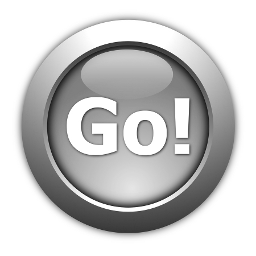
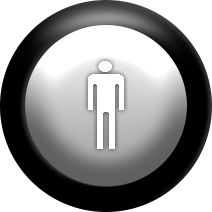
imp: arcade mode: changed coloring to blu-ish, using new launch button images from JacKc

diff --git a/trunk/arcade/qml/ToxicWaste/ToxicWaste.qml b/trunk/arcade/qml/ToxicWaste/ToxicWaste.qml
@@ -29,10 +29,13 @@ Rectangle {
     width: ToxicWaste.baseWidth
     height: ToxicWaste.baseHeight
     z: 0
-    gradient: Gradient {
-        GradientStop { position: 0.00; color: "#3aa82b" }
-        GradientStop { position: 0.75; color: "#ffffff" }
-        GradientStop { position: 1.00; color: "#000000" }
+    Image {
+       id: backGroundImage
+       anchors.fill: parent
+       fillMode: Image.PreserveAspectFit
+       source: "images/shadereffectsource.png"
+       smooth: true
+       z: 0
     }
     Image {
         id: toxicImage
@@ -103,7 +106,7 @@ Rectangle {
                 smooth: true
                 gradient: Gradient {
                     GradientStop { position: 0.00; color: "#ffffff" }
-                    GradientStop { position: 0.50; color: "#c0f08c" }
+                    GradientStop { position: 0.50; color: "#007bff" }
                 }
                 Text {
                     id: itemDescription
@@ -239,28 +242,35 @@ Rectangle {
             }
         }
     }
-    Image {
-        id: launchButton
-        source: ToxicWaste.launchButtonSource()
-        width: 64
-        height: 64
-        opacity: 0.7
+    Rectangle {
         anchors.verticalCenter: parent.verticalCenter
-        anchors.verticalCenterOffset: 32 * ToxicWaste.scaleFactorX() - toxicWasteMain.height/2
+        anchors.verticalCenterOffset: 29 * ToxicWaste.scaleFactorX() - toxicWasteMain.height/2
         anchors.horizontalCenter: parent.horizontalCenter
-        anchors.horizontalCenterOffset: 32 * ToxicWaste.scaleFactorX() - toxicWasteMain.width/2
+        anchors.horizontalCenterOffset: 29 * ToxicWaste.scaleFactorX() - toxicWasteMain.width/2
         scale: ToxicWaste.scaleFactorX()
+        width: 48
+        height: 48
         z: 4
+        color: "darkgrey"
+        radius: 26
         smooth: true
-        fillMode: Image.PreserveAspectFit
-        MouseArea {
+        Image {
+            id: launchButton
+            source: ToxicWaste.launchButtonSource()
+            opacity: 0.8
+            smooth: true
             anchors.fill: parent
-            hoverEnabled: true
-            onEntered: parent.opacity = 1.0
-            onExited: parent.opacity = 0.7
-            onClicked: {
-                viewer.launchEmulator(gameListModel[gamelistView.currentIndex].id);
-                searchTextInput.focus = false;
+            fillMode: Image.PreserveAspectFit
+            z: 4
+            MouseArea {
+                anchors.fill: parent
+                hoverEnabled: true
+                onEntered: parent.opacity = 1.0
+                onExited: parent.opacity = 0.8
+                onClicked: {
+                    viewer.launchEmulator(gameListModel[gamelistView.currentIndex].id);
+                    searchTextInput.focus = false;
+                }
             }
         }
     }
@@ -361,7 +371,7 @@ Rectangle {
         Timer {
             id: launchButtonFlashTimer
             running: false
-            onTriggered: launchButton.opacity = 0.5
+            onTriggered: launchButton.opacity = 0.8
             interval: 100
         }
         Keys.onPressed: {

diff --git a/trunk/data/doc/html/us/changes.html b/trunk/data/doc/html/us/changes.html
@@ -5,7 +5,7 @@
   <title>M.A.M.E./M.E.S.S./U.M.E. Catalog / Launcher II Documentation - CHANGES</title>
 </head>
 <body style="color: black; background-image:url(../images/doc-bg.jpg);" dir="ltr" alink="#111111" link="#111111" vlink="#999999">
-<h3>CHANGES - v0.38, 12-DEC-2012</h3>
+<h3>CHANGES - v0.38, 14-DEC-2012</h3>
 <p>
 fix: general bug fixes<br>
 imp: improved functionality<br>
@@ -14,7 +14,7 @@ wip: (incomplete) work in progress<br>
 doc: documentation changes<br>
 inf: informational only
 </p>
-<p><b>v0.38, 12-DEC-2012:</b></p>
+<p><b>v0.38, 14-DEC-2012:</b></p>
 <ul>
   <li>fix: corrected progress-bar updates when loading <i>catver.ini</i> or <i>category.ini</i></li>
   <li>fix: corrected remapping of key-sequences using the Command key on Mac OS X</li>
